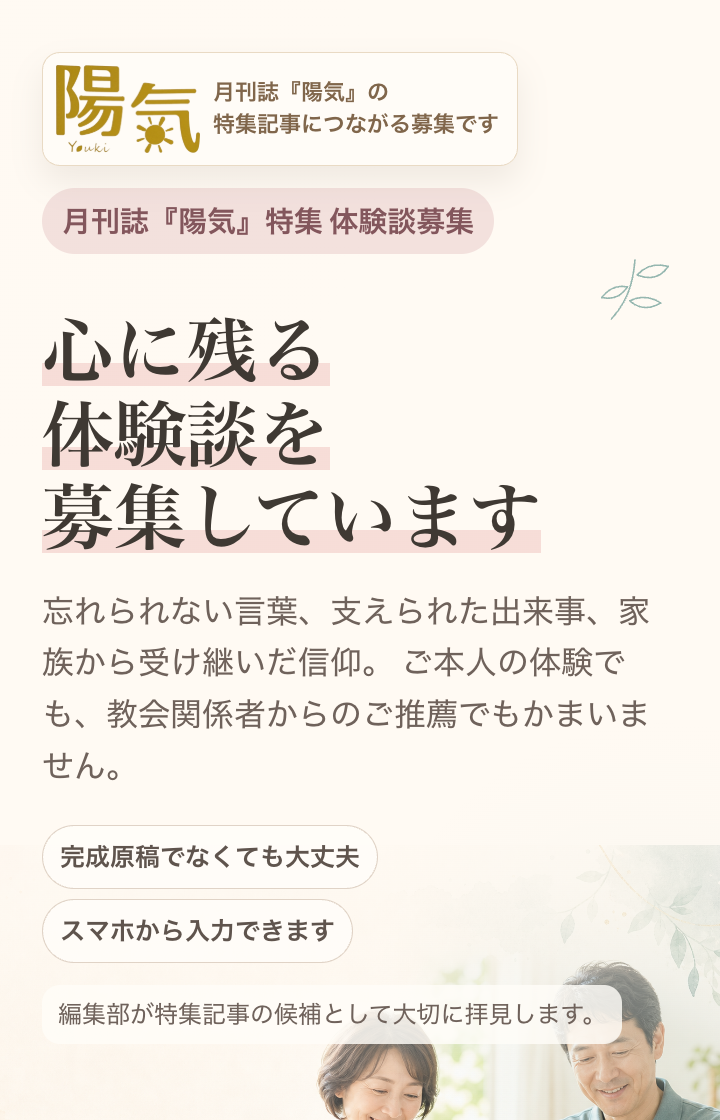
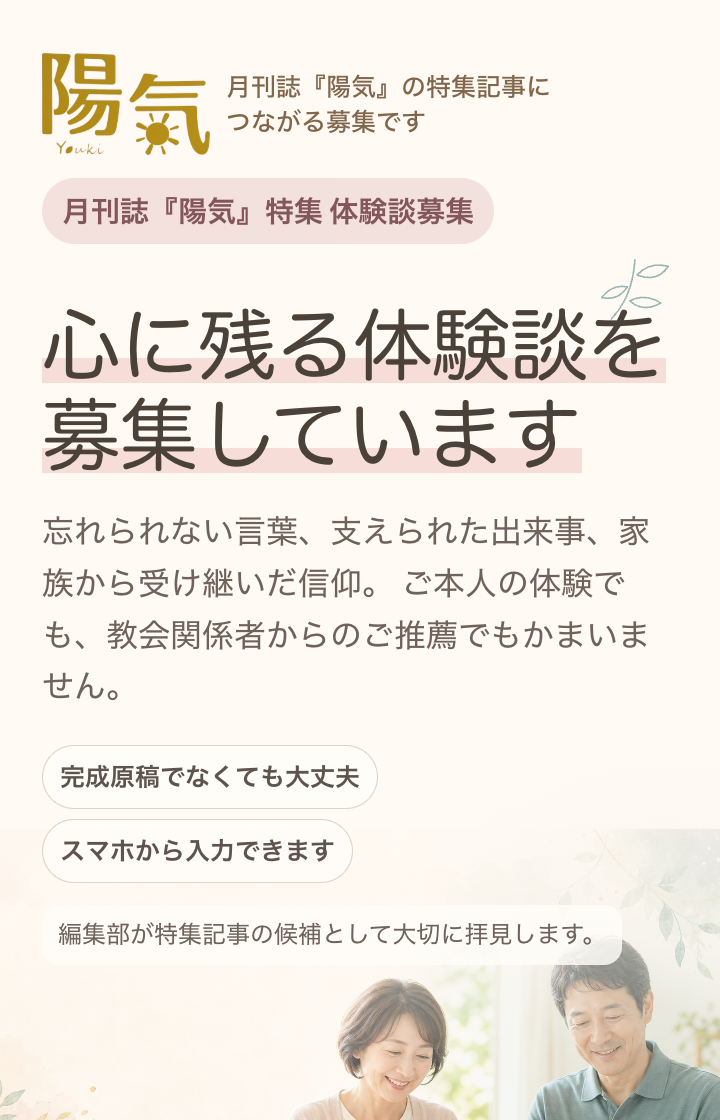
Use flyer images for mobile hero

diff --git a/index.html b/index.html
@@ -840,7 +840,14 @@
         }
 
         .hero-visual picture {
-          display: none;
+          display: block;
+        }
+
+        .hero-visual img {
+          border: 0;
+          border-radius: 0;
+          background: #fffaf3;
+          box-shadow: none;
         }
 
         #storyForm,
@@ -849,12 +856,7 @@
         }
 
         .mobile-hero-composed {
-          position: relative;
-          display: block;
-          overflow: hidden;
-          min-height: 720px;
-          background: #fffaf3;
-          padding: 28px 24px 198px;
+          display: none;
         }
 
         .intro-band {
@@ -926,10 +928,10 @@
           <picture>
             <source
               media="(max-width: 640px)"
-              srcset="assets/yoki-hero-flyer-mobile.png?v=202606021158"
+              srcset="assets/yoki-hero-flyer-mobile.png?v=202606021735"
             />
             <img
-              src="assets/yoki-hero-flyer-desktop.png?v=202606021158"
+              src="assets/yoki-hero-flyer-desktop.png?v=202606021735"
               alt="月刊誌『陽気』特集 体験談募集。心に残る体験談を募集しています。忘れられない言葉、支えられた出来事、家族から受け継いだ信仰。ご本人の体験でも、教会関係者からのご推薦でもかまいません。完成原稿でなくても大丈夫。スマホから入力できます。編集部が特集記事の候補として大切に拝見します。"
               loading="eager"
             />